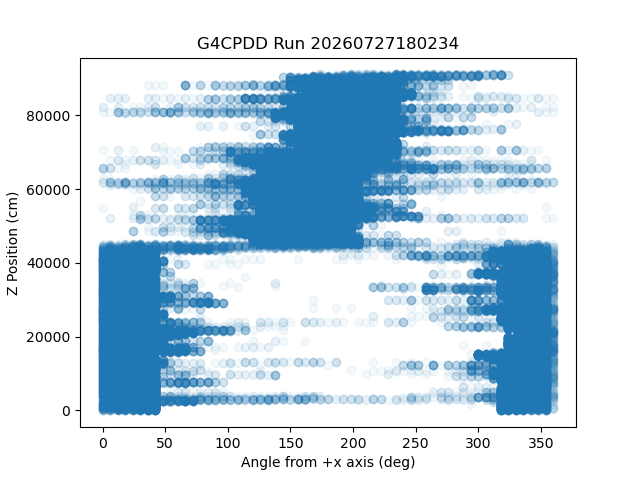
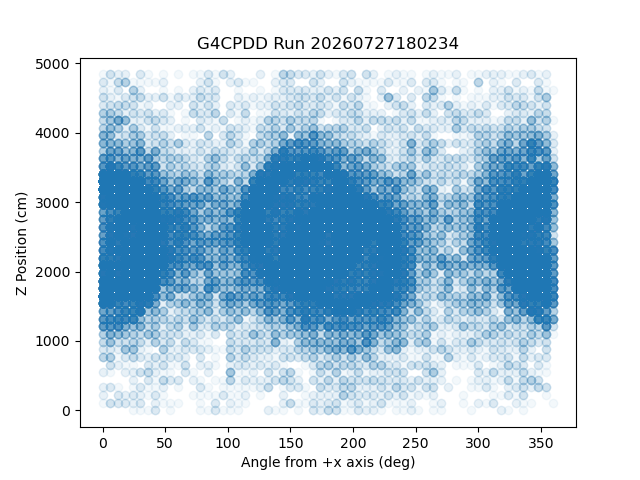
fixed cn graph

diff --git a/data/cnGraph.py b/data/cnGraph.py
@@ -10,7 +10,7 @@ z = np.array([])
 
 for hit in data:
     hitTheta = (hit[1] % 100) * 6
-    hitZ = int(hit[0] / 100) * 110
+    hitZ = int(hit[1] / 100) * 110
     theta = np.append(theta, hitTheta)
     z = np.append(z, hitZ)
 
